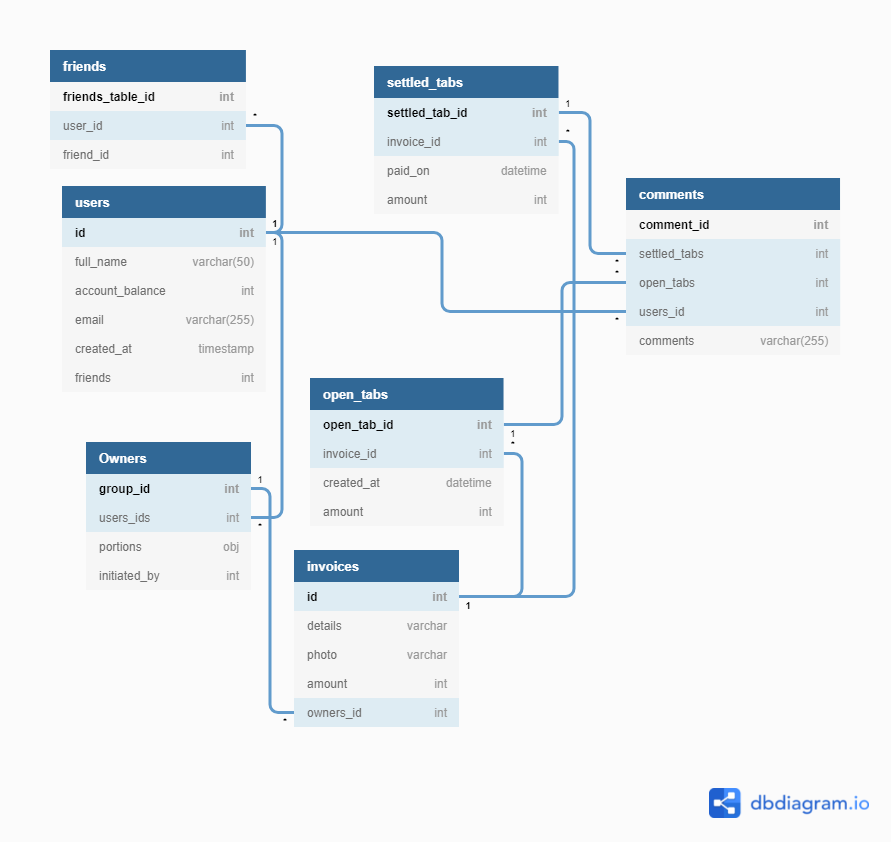
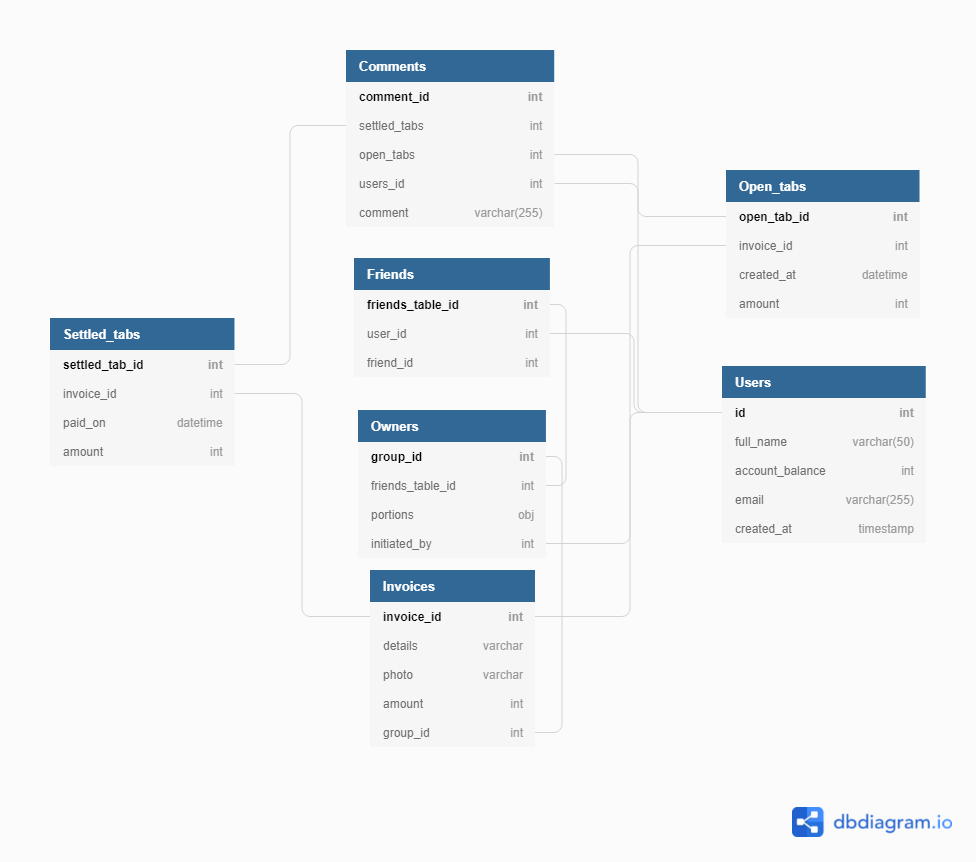
updated schema

diff --git a/backend/db/migrations/20210223062904-create-friend.js b/backend/db/migrations/20210223062904-create-friend.js
@@ -1,0 +1,30 @@
+'use strict';
+module.exports = {
+  up: (queryInterface, Sequelize) => {
+    return queryInterface.createTable('Friends', {
+      friends_table_id: {
+        allowNull: false,
+        autoIncrement: true,
+        primaryKey: true,
+        type: Sequelize.INTEGER
+      },
+      user_id: {
+        type: Sequelize.INTEGER
+      },
+      friend_id: {
+        type: Sequelize.INTEGER
+      },
+      createdAt: {
+        allowNull: false,
+        type: Sequelize.DATE
+      },
+      updatedAt: {
+        allowNull: false,
+        type: Sequelize.DATE
+      }
+    });
+  },
+  down: (queryInterface, Sequelize) => {
+    return queryInterface.dropTable('Friends');
+  }
+};

diff --git a/backend/db/migrations/20210223063950-create-owner.js b/backend/db/migrations/20210223063950-create-owner.js
@@ -1,0 +1,28 @@
+"use strict";
+module.exports = {
+  up: (queryInterface, Sequelize) => {
+    return queryInterface.createTable("Owners", {
+      id: {
+        allowNull: false,
+        autoIncrement: true,
+        primaryKey: true,
+        type: Sequelize.INTEGER,
+      },
+      friends_table_id: {
+        type: Sequelize.INTEGER,
+        references: { model: Owners },
+      },
+      createdAt: {
+        allowNull: false,
+        type: Sequelize.DATE,
+      },
+      updatedAt: {
+        allowNull: false,
+        type: Sequelize.DATE,
+      },
+    });
+  },
+  down: (queryInterface, Sequelize) => {
+    return queryInterface.dropTable("Owners");
+  },
+};

diff --git a/backend/db/migrations/20210223070059-create-settled-tab.js b/backend/db/migrations/20210223070059-create-settled-tab.js
@@ -1,0 +1,27 @@
+'use strict';
+module.exports = {
+  up: (queryInterface, Sequelize) => {
+    return queryInterface.createTable('Settled_tabs', {
+      id: {
+        allowNull: false,
+        autoIncrement: true,
+        primaryKey: true,
+        type: Sequelize.INTEGER
+      },
+      invoice_id: {
+        type: Sequelize.INTEGER
+      },
+      createdAt: {
+        allowNull: false,
+        type: Sequelize.DATE
+      },
+      updatedAt: {
+        allowNull: false,
+        type: Sequelize.DATE
+      }
+    });
+  },
+  down: (queryInterface, Sequelize) => {
+    return queryInterface.dropTable('Settled_tabs');
+  }
+};

diff --git a/backend/db/migrations/20210223065808-create-open-tab.js b/backend/db/migrations/20210223065808-create-open-tab.js
@@ -1,0 +1,27 @@
+'use strict';
+module.exports = {
+  up: (queryInterface, Sequelize) => {
+    return queryInterface.createTable('Open_tabs', {
+      id: {
+        allowNull: false,
+        autoIncrement: true,
+        primaryKey: true,
+        type: Sequelize.INTEGER
+      },
+      invoice_id: {
+        type: Sequelize.INTEGER
+      },
+      createdAt: {
+        allowNull: false,
+        type: Sequelize.DATE
+      },
+      updatedAt: {
+        allowNull: false,
+        type: Sequelize.DATE
+      }
+    });
+  },
+  down: (queryInterface, Sequelize) => {
+    return queryInterface.dropTable('Open_tabs');
+  }
+};

diff --git a/backend/db/migrations/20210223070407-create-comment.js b/backend/db/migrations/20210223070407-create-comment.js
@@ -1,0 +1,27 @@
+'use strict';
+module.exports = {
+  up: (queryInterface, Sequelize) => {
+    return queryInterface.createTable('Comments', {
+      id: {
+        allowNull: false,
+        autoIncrement: true,
+        primaryKey: true,
+        type: Sequelize.INTEGER
+      },
+      settled_tabs: {
+        type: Sequelize.INTEGER
+      },
+      createdAt: {
+        allowNull: false,
+        type: Sequelize.DATE
+      },
+      updatedAt: {
+        allowNull: false,
+        type: Sequelize.DATE
+      }
+    });
+  },
+  down: (queryInterface, Sequelize) => {
+    return queryInterface.dropTable('Comments');
+  }
+};

diff --git a/backend/db/migrations/20210223064926-create-invoice.js b/backend/db/migrations/20210223064926-create-invoice.js
@@ -1,0 +1,27 @@
+'use strict';
+module.exports = {
+  up: (queryInterface, Sequelize) => {
+    return queryInterface.createTable('Invoices', {
+      id: {
+        allowNull: false,
+        autoIncrement: true,
+        primaryKey: true,
+        type: Sequelize.INTEGER
+      },
+      details: {
+        type: Sequelize.STRING
+      },
+      createdAt: {
+        allowNull: false,
+        type: Sequelize.DATE
+      },
+      updatedAt: {
+        allowNull: false,
+        type: Sequelize.DATE
+      }
+    });
+  },
+  down: (queryInterface, Sequelize) => {
+    return queryInterface.dropTable('Invoices');
+  }
+};

diff --git a/backend/db/models/friends.js b/backend/db/models/friends.js
@@ -1,0 +1,11 @@
+'use strict';
+module.exports = (sequelize, DataTypes) => {
+  const friends = sequelize.define('friends', {
+    user_id: DataTypes.INTEGER,
+    friend_id: DataTypes.INTEGER
+  }, {});
+  friends.associate = function(models) {
+    // associations can be defined here
+  };
+  return friends;
+};

diff --git a/backend/db/models/friend.js b/backend/db/models/friend.js
@@ -1,0 +1,11 @@
+'use strict';
+module.exports = (sequelize, DataTypes) => {
+  const Friend = sequelize.define('Friend', {
+    user_id: DataTypes.INTEGER,
+    friend_id: DataTypes.INTEGER
+  }, {});
+  Friend.associate = function(models) {
+    // associations can be defined here
+  };
+  return Friend;
+};

diff --git a/backend/db/models/settled_tab.js b/backend/db/models/settled_tab.js
@@ -1,0 +1,10 @@
+'use strict';
+module.exports = (sequelize, DataTypes) => {
+  const Settled_tab = sequelize.define('Settled_tab', {
+    invoice_id: DataTypes.INTEGER
+  }, {});
+  Settled_tab.associate = function(models) {
+    // associations can be defined here
+  };
+  return Settled_tab;
+};

diff --git a/backend/db/models/open_tab.js b/backend/db/models/open_tab.js
@@ -1,0 +1,10 @@
+'use strict';
+module.exports = (sequelize, DataTypes) => {
+  const Open_tab = sequelize.define('Open_tab', {
+    invoice_id: DataTypes.INTEGER
+  }, {});
+  Open_tab.associate = function(models) {
+    // associations can be defined here
+  };
+  return Open_tab;
+};

diff --git a/backend/db/models/comment.js b/backend/db/models/comment.js
@@ -1,0 +1,10 @@
+'use strict';
+module.exports = (sequelize, DataTypes) => {
+  const Comment = sequelize.define('Comment', {
+    settled_tabs: DataTypes.INTEGER
+  }, {});
+  Comment.associate = function(models) {
+    // associations can be defined here
+  };
+  return Comment;
+};

diff --git a/backend/db/models/owner.js b/backend/db/models/owner.js
@@ -1,0 +1,10 @@
+'use strict';
+module.exports = (sequelize, DataTypes) => {
+  const Owner = sequelize.define('Owner', {
+    friends_table_id: DataTypes.INTEGER
+  }, {});
+  Owner.associate = function(models) {
+    // associations can be defined here
+  };
+  return Owner;
+};
